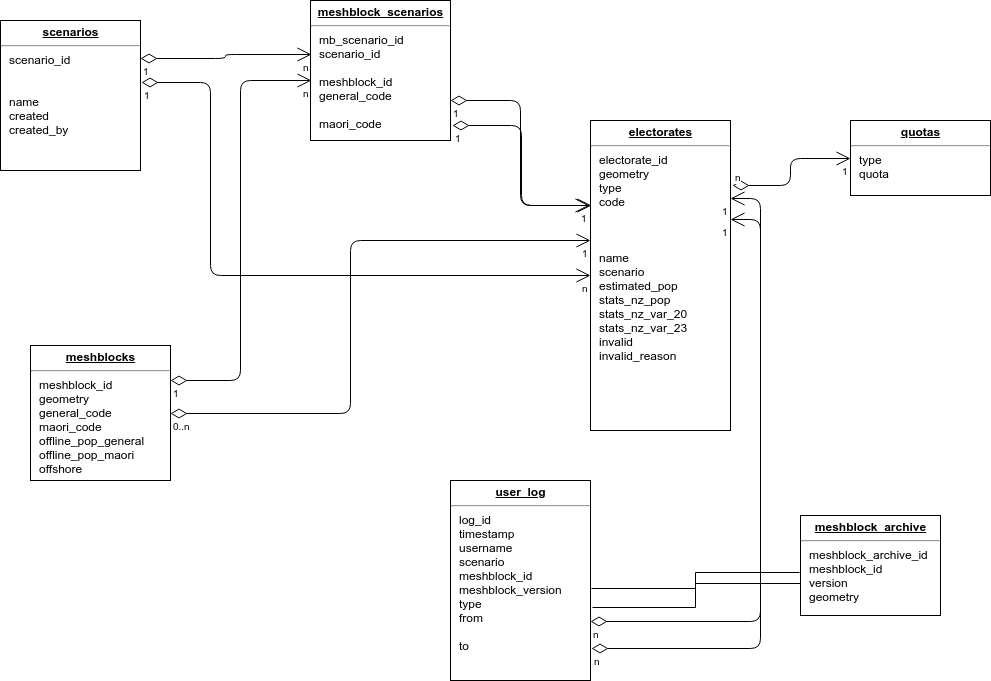
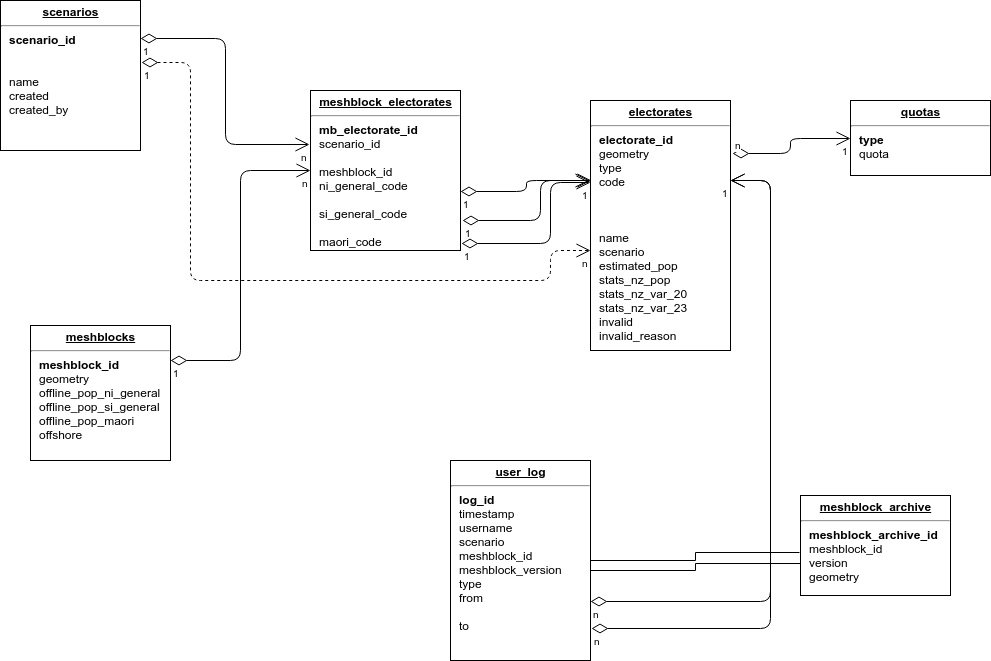
Database design version 3

diff --git a/documentation/db_design/db_design.md b/documentation/db_design/db_design.md
@@ -1,3 +1,7 @@
+# Document Version
+
+- Current: 3.0.0 (2018-04-17)
+
 # Tables
 
 ![Database Structure](images/design.png)
@@ -10,8 +14,9 @@ Contains mesh block boundaries and various statistics and properties of these me
 | ------------- | ------------- | ----------------- | ------------ | ----- | ----------
 | meshblock_id     | string(20)    | Mesh Block Code   |              | PK    | Unique mesh block ID, e.g. MB 0847800
 | geometry      | geometry(MultiPolygon, 2193)  | Mesh Block boundary |  | Spatial | 
-| offline_pop_general | int | Offline general population | | | Offline general population of mesh block
-| offline_pop_maori | int | Offline Maori population | | | Offline Maori population of mesh block
+| offline_pop_ni_general | int | Offline North Island general population | | | Offline general population of mesh block
+| offline_pop_si_general | int | Offline South Island general population | | | Offline general population of mesh block
+| offline_pop_maori | int | Offline Maori population | | | Offline Maori population of mesh block	
 | offshore | boolean |  | T/F | | True if mesh block is an offshore mesh block
 
 ## scenarios
@@ -27,16 +32,17 @@ Initially, the scenario table is populated with a single scenario representing t
 | created | datetime | Created Date/Time |              |         | Timestamp from when scenario was created
 | created_by | string(30) | Created by |                |         | Username for user who created the scenario
 
-## meshblock_scenarios
+## meshblock_electorates
 
-Links meshblocks to assigned electorates. Assignment is based on scenarios, where a single meshblock will appear only once per scenario in this table. This is a non-spatial table.
+Links meshblocks to assigned electorates. Assignment is based on scenarios, where a single meshblock will appear only once **per scenario** in this table. This is a non-spatial table.
 
 | Column name   | Type          |  Descriptive name | Valid Values | Index | Description
 | ------------- | ------------- | ----------------- | ------------ | ----- | ----------
 | mb_scenario_id | int | Unique ID |  | PK | 
 | scenario_id     | string(20)  | Scenario ID |              |   Y  | Linked scenario ID
 | meshblock_id | string(20) | Mesh Block code |  | Y | Linked meshblock ID code
-| general_code | int | General Electorate Code | | | Currently assigned General Electorate to meshblock for scenario
+| ni_general_code | int | North Island General Electorate Code | | | Currently assigned General Electorate to meshblock for scenario
+| si_general_code | int | South Island General Electorate Code | | | Currently assigned General Electorate to meshblock for scenario
 | maori_code | int | Maori Electorate Code | | | Currently assigned Maori Electorate to meshblock for scenario
 
 ## electorates
@@ -50,7 +56,7 @@ Contains available General and Maori electorates. This is a spatial table, conta
 | type | string(2) | Electorate type | GN/GS/M  | Y | Contains 'GN' for General North Island electorates, 'GS' for General South Island, or 'M' for Maori electorates
 | code | string(4) | Electorate code |  | | Code for electorate, e.g. '0302'
 | name | string(50) | Electorate name |  | | Name of electorate
-| scenario | string(20) | Current scenario | | | Contains the current scenario from which the populations and boundary were calculated
+| scenario | string(20) | Current scenario | | | Contains the current scenario from which the cached populations and boundary were calculated
 | estimated_pop | int | Estimated population | | | Estimated (offline) population based on rough mesh block populations
 | stats_nz_pop | int | Statistics NZ population | | | Population obtained from Statistics NZ API, or NULL if not available
 | stats_nz_var_20 | int | Variation from quota  2020 | | | Projected variation from quota as of 2020 obtained from Statistics NZ API, or NULL if not available
@@ -64,7 +70,7 @@ Contains population quotas for the different electorate types. Used to retrieve 
 
 | Column name   | Type          |  Descriptive name | Valid Values | Index | Description
 | ------------- | ------------- | ----------------- | ------------ | ----- | ----------
-| type | string(2) | Electorate type | GN/GS/M  | Y | Contains 'GN' for General North Island electorates, 'GS' for General South Island, or 'M' for Maori electorates
+| type | string(2) | Electorate type | GN/GS/M  | PK | Contains 'GN' for General North Island electorates, 'GS' for General South Island, or 'M' for Maori electorates
 | quota | int | Population quota | | | Target population for electorates of this type
 
 
